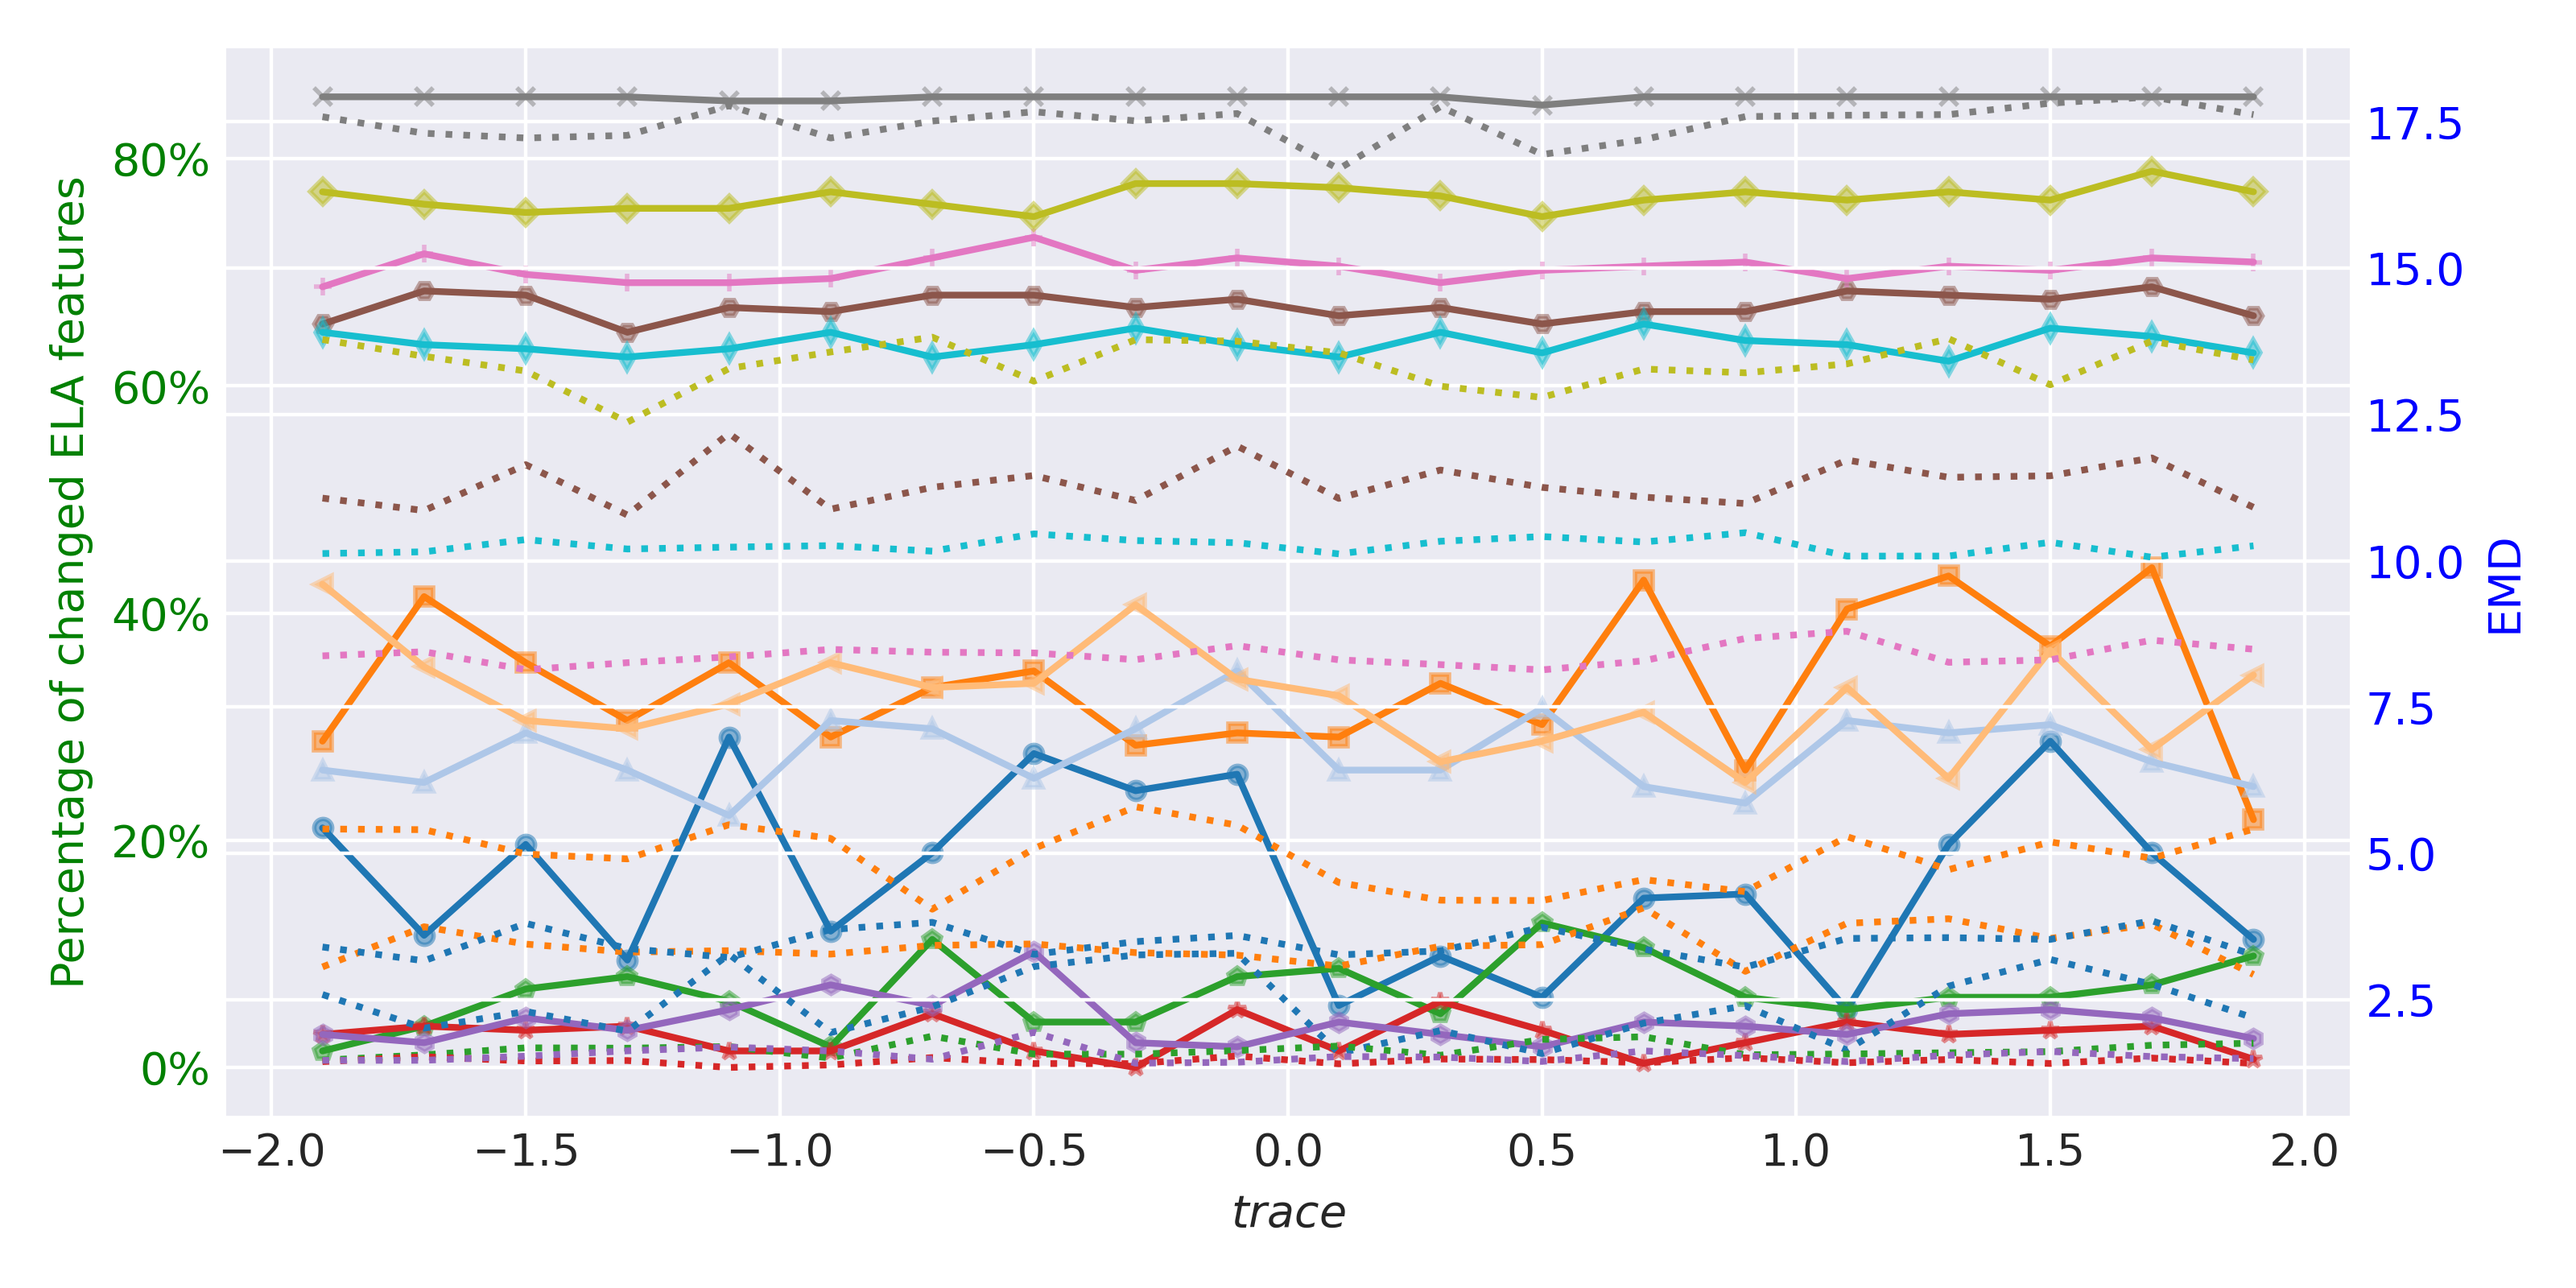
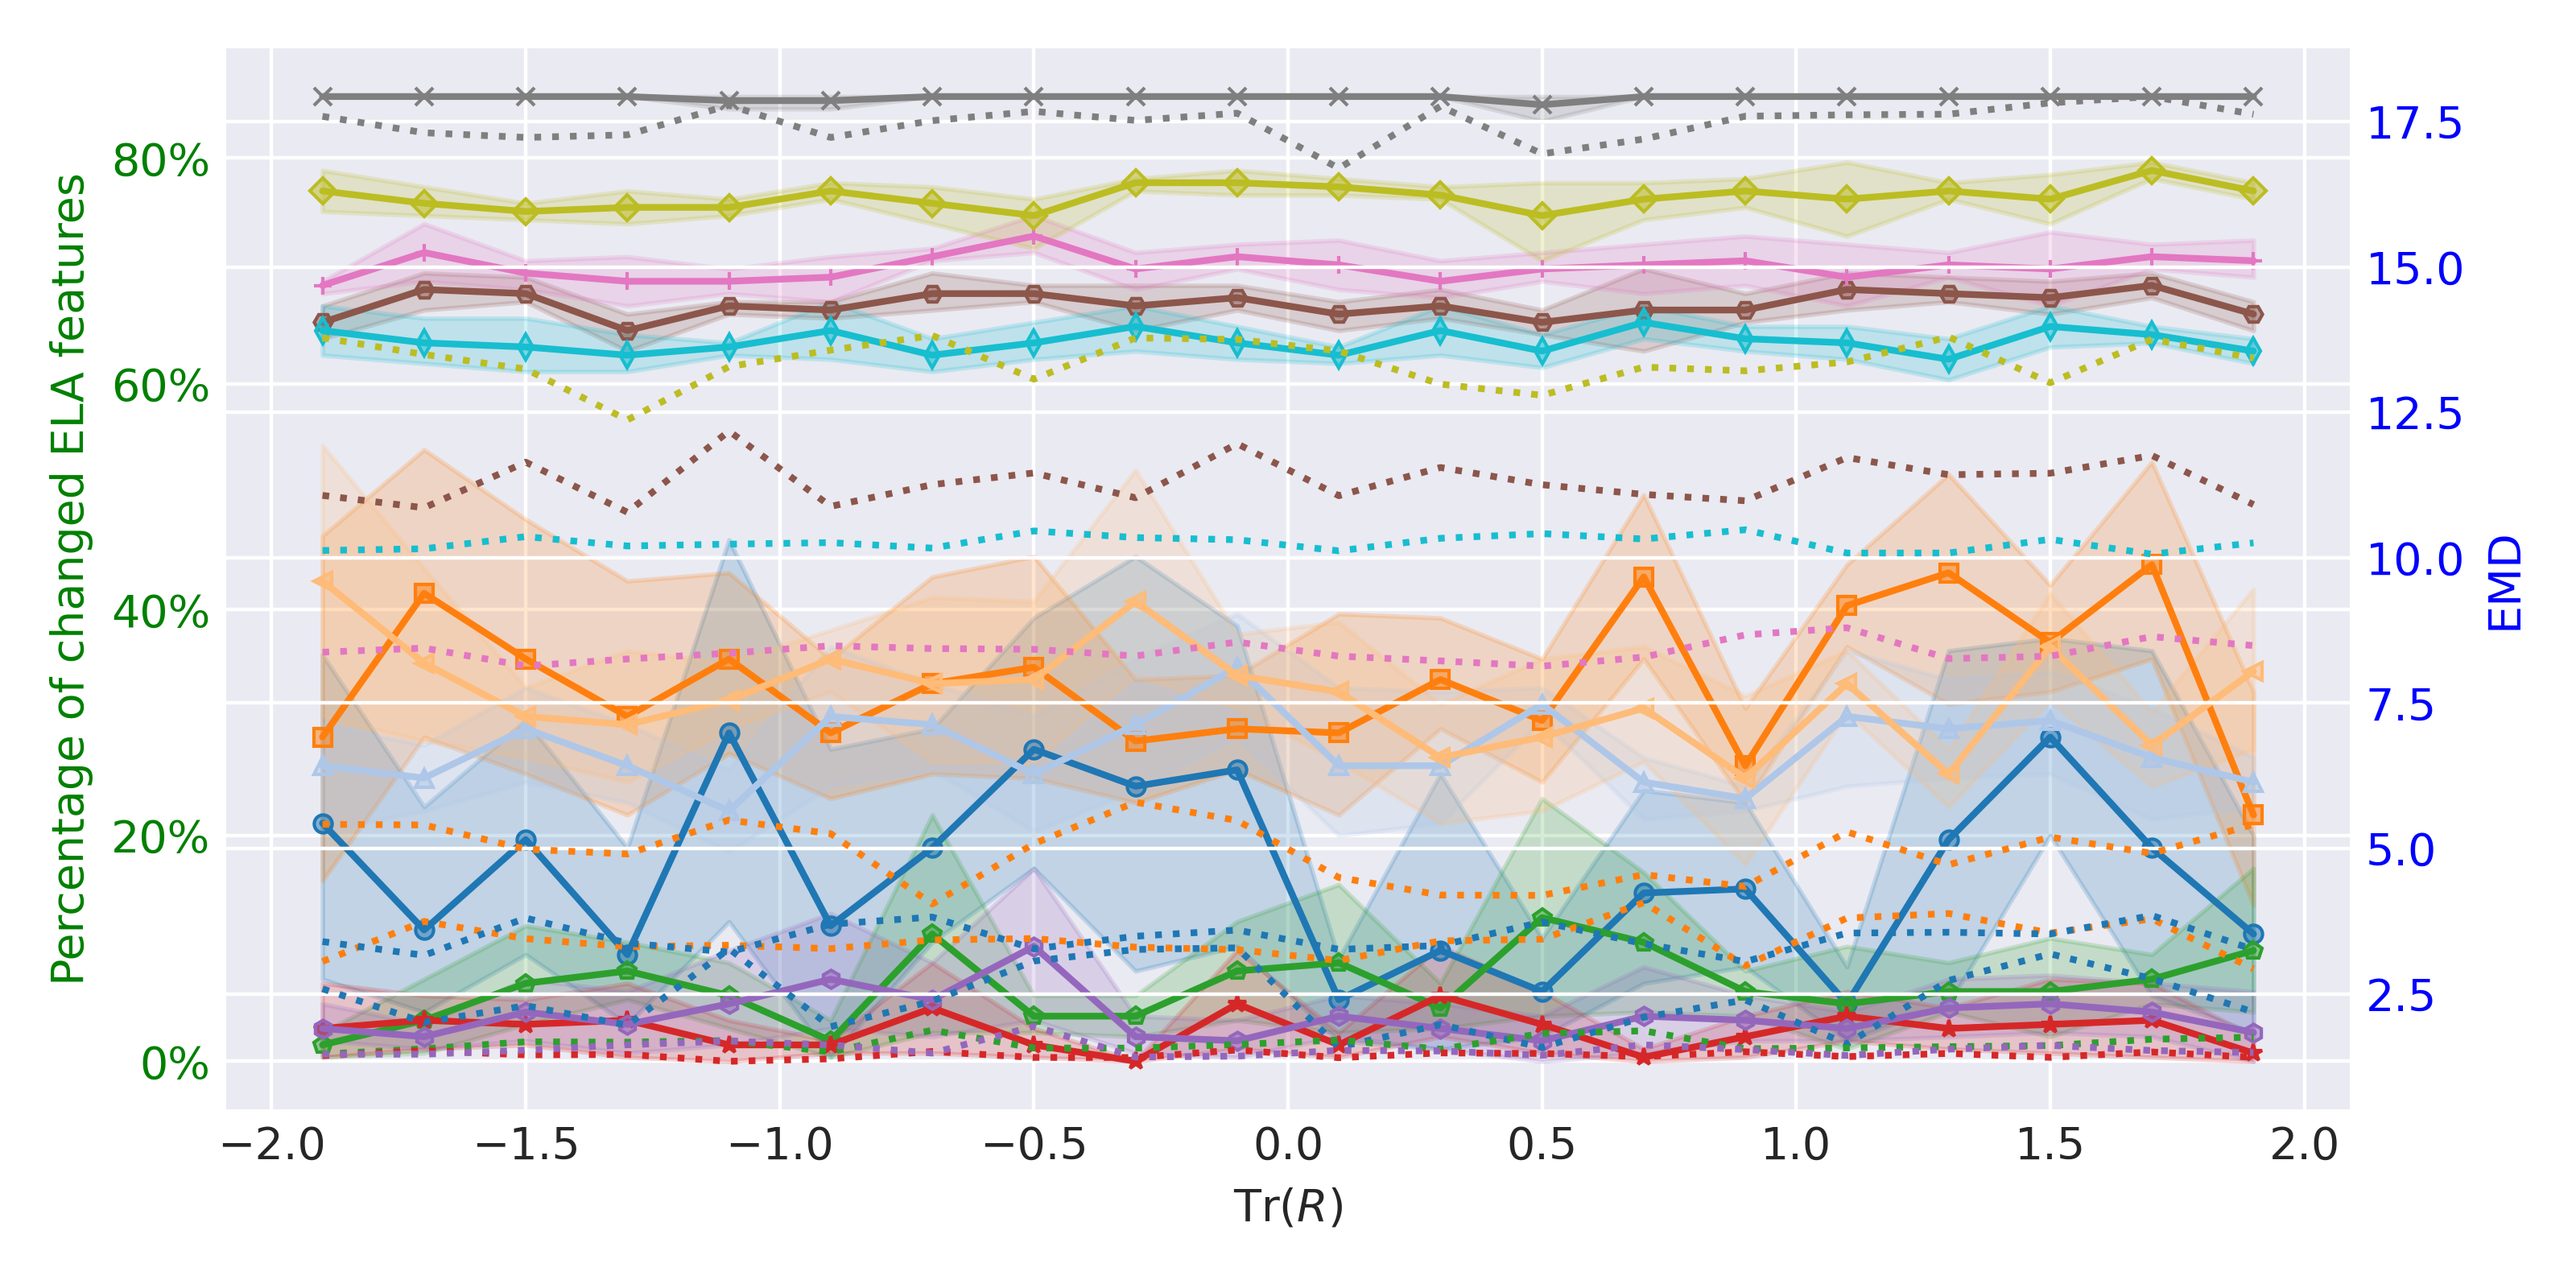
refine plots

diff --git a/scripts/plot_ks_emd.py b/scripts/plot_ks_emd.py
@@ -52,7 +52,9 @@ def lineplot(transformation, indicator, ax1, conn):
         ratios = counts / number_of_columns
         selected_pvalue[:, 2] = ratios
         if transformation == "x_rotation":
-            x, y = rotation_avg(selected_pvalue[:, 1], selected_pvalue[:, 2])
+            # x, y = rotation_avg(selected_pvalue[:, 1], selected_pvalue[:, 2])
+            x = np.array([-1.9 + i * 0.2 for i in range(20) for _ in range(5)])
+            y = selected_pvalue[:, 2]
         else:
             first_positive_index = np.where(selected_pvalue[:, 1] > 0)[0][0]
             x = np.insert(selected_pvalue[:, 1], first_positive_index, 0.)
@@ -61,8 +63,13 @@ def lineplot(transformation, indicator, ax1, conn):
                 df = pd.DataFrame(y, columns=["y"])
                 df["avg_y"] = df["y"].rolling(window=5).mean()
                 y = df["avg_y"].values
-        ax1.plot(x, y, color=colors[problem_id-1], marker=markers[problem_id-1],
-                 markersize=4, markerfacecolor=marker_colors[problem_id-1],)
+        df = pd.DataFrame(np.vstack([x, y]).T, columns=["x", "y"])
+        sns.lineplot(x="x", y="y", data=df, color=colors[problem_id-1],
+                     marker=markers[problem_id-1], markersize=4,
+                     markerfacecolor=marker_colors[problem_id-1],
+                     markeredgecolor=colors[problem_id-1], ax=ax1)
+        # ax1.plot(x, y, color=colors[problem_id-1], marker=markers[problem_id-1],
+        #          markersize=4, markerfacecolor=marker_colors[problem_id-1],)
         # plot EMD
         selected_emd = df_emd[df_emd["problem_id"] == problem_id].values
         columns_to_check = selected_emd[:, 2:]
@@ -78,6 +85,8 @@ def lineplot(transformation, indicator, ax1, conn):
                 df["avg_y"] = df["y"].rolling(window=5).mean()
                 y = df["avg_y"].values
         ax2.plot(x, y, linestyle="dotted")
+    if indicator == "trace":
+        indicator = "\\text{Tr}(R)"
     ax1.set_xlabel(f"${indicator}$")
     ax1.set_ylabel('Percentage of changed ELA features', color='g')
     ax1.tick_params(axis='y', labelcolor='g')
